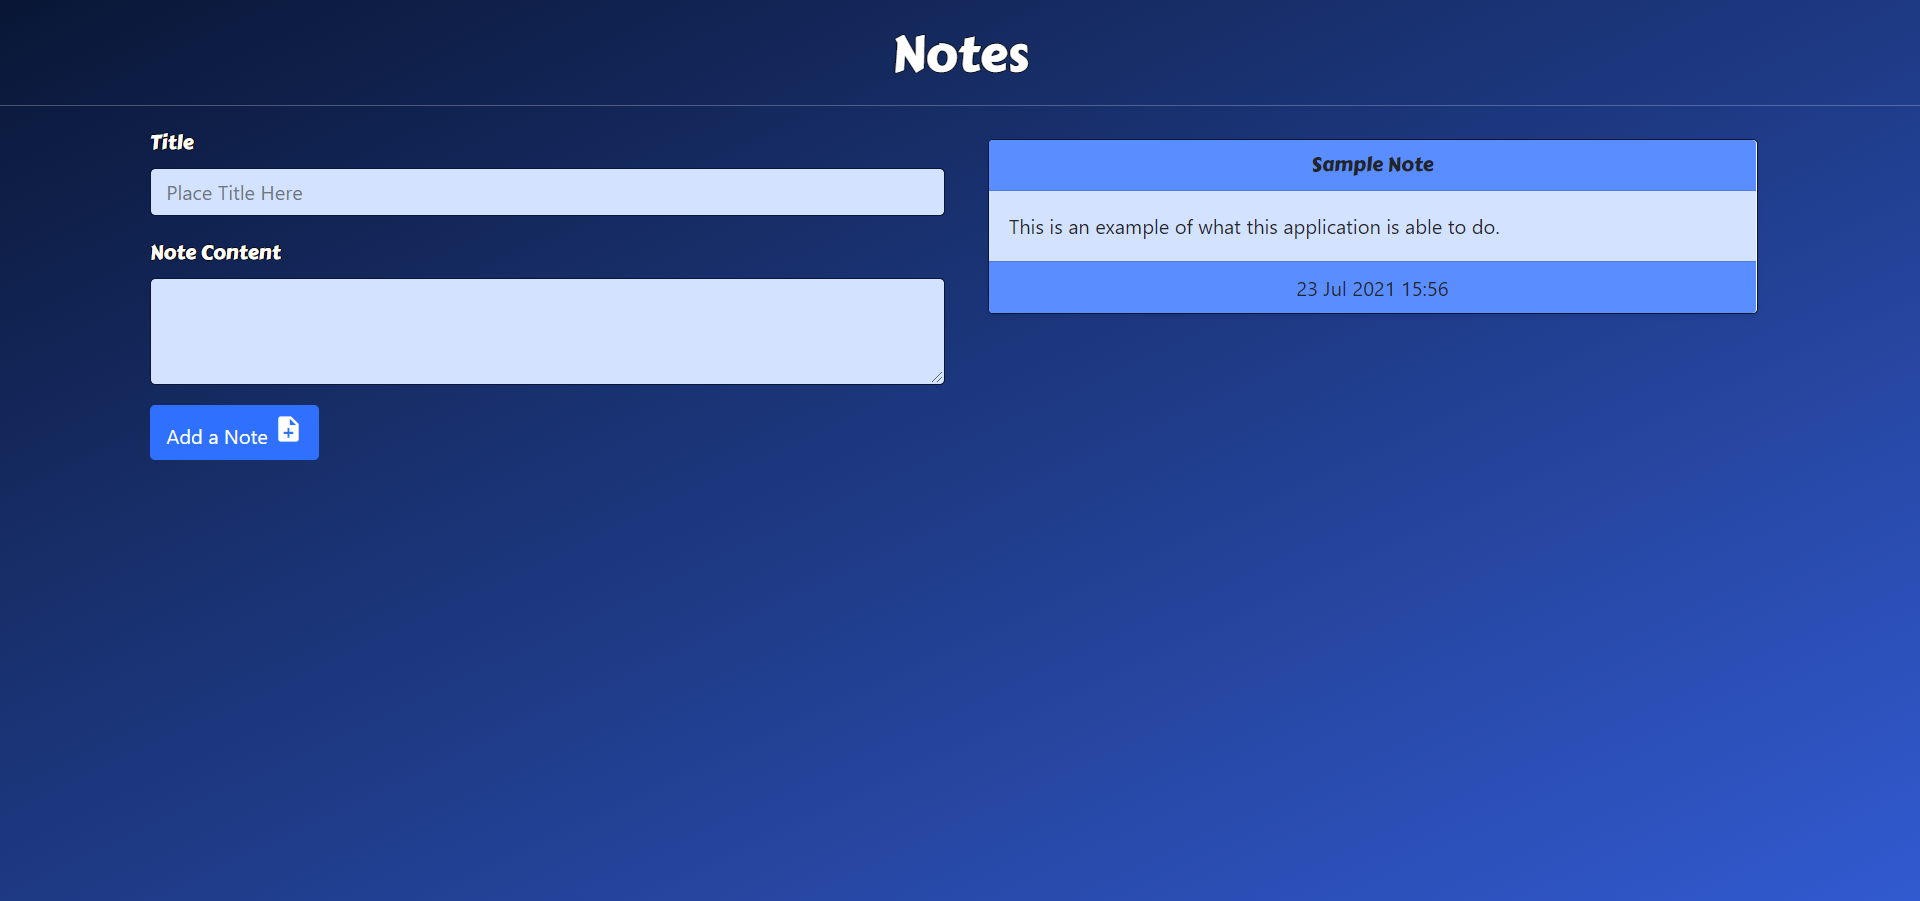
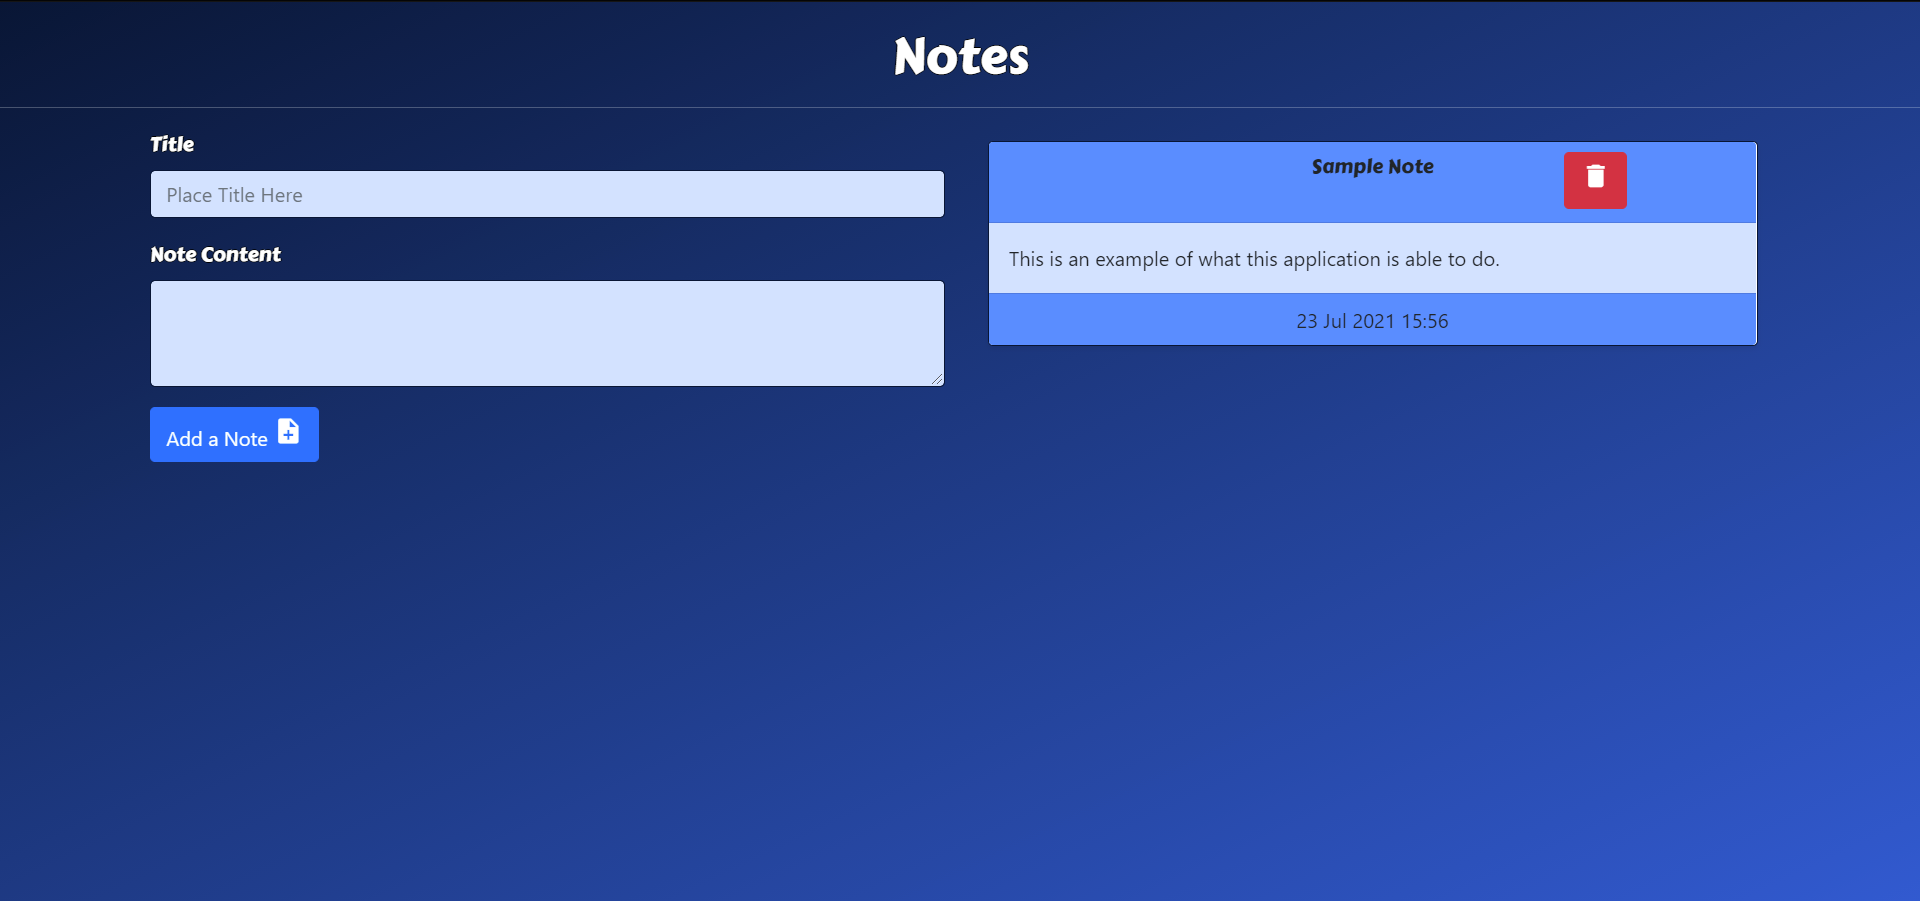
Added a feature to delete notes taken. Added being able to look up a single note with a GET request.

diff --git a/routes/notesRouter.js b/routes/notesRouter.js
@@ -1,11 +1,42 @@
 const router =  require('express').Router();
-const { readFromFile, readAndAppend } = require('../helpers/fsUtils');
+const { readFromFile, readAndOverwrite, readAndAppend, } = require('../helpers/fsUtils');
 const uuid = require('../helpers/uuid');
 const getDate = require('../helpers/getDate');
+const notes = require('../db/db.json');
 
 router.get('/', (req, res) => {
     console.info(`${req.method} request received for notes`);
     readFromFile('./db/db.json').then((data) => res.json(JSON.parse(data)));
+});
+
+router.get('/:note_id', (req, res) => {
+  const noteId = req.params.note_id;
+  if (req.body && noteId) {
+    console.info(`${req.method} request received for note ${noteId}.`);
+    for (let i = 0; i < notes.length; i++) {
+      const currentNote = notes[i];
+      if (currentNote.note_id === noteId) {
+        res.json(currentNote);
+        return;
+      }
+    }
+    res.json('Note ID not found');
+  }
+});
+
+router.delete('/:note_id', (req, res, next) => {
+  const noteId = req.params.note_id;
+  console.info(`${req.method} request received for note id ${noteId}.`);
+  for (let i = 0; i < notes.length; i++) {
+    const currentNote = notes[i];
+    if (currentNote.note_id === noteId) {
+      res.json(`${currentNote.title} has been deleted`);
+      notes.splice(i, 1);
+      console.log(notes);
+      readAndOverwrite(notes, './db/db.json');
+      return;
+    }
+  }
 });
 
 router.post('/', (req, res) => {
@@ -21,7 +52,6 @@ router.post('/', (req, res) => {
         note_id: uuid(),
       };
       readAndAppend(newNote, './db/db.json');
-      
       res.json(`Note added successfully. ID: ${newNote.note_id}`);
     } else {
       res.error('Error in adding note. Please try again.');

diff --git a/public/scripts/notes.js b/public/scripts/notes.js
@@ -33,6 +33,13 @@ const createCard = (note) => {
   cardEl.setAttribute('key', note.note_id);
   cardEl.innerHTML = (`<div class="card-header">
     ${note.title}
+    <br />
+    <br />
+    <button type="button" class="btn btn-danger">
+      <span class="material-icons md-36" id="delete-button">
+        delete
+      </span>
+    </button>
   </div>
   <div class="card-body">
     <p class="card-text">${note.text}</p>
@@ -41,7 +48,15 @@ const createCard = (note) => {
     ${note.date}
   </div>`)
   notesContainer.appendChild(cardEl);
+  handleDeleteButton();
 };
+
+const handleDeleteButton = () => {
+  let deleteButton = (document.querySelectorAll("#delete-button"));
+  for (let i = 0; i < deleteButton.length; i++) {
+    deleteButton[i].addEventListener('click', deleteNote);
+  }
+}
 
 const getNotes = () =>
   fetch(('/api/notes'), {
@@ -78,6 +93,19 @@ const postNote = (note) =>
   )
 ;
 
+const deleteNote = () => {
+  fetch(`/api/notes/${event.target.parentNode.parentNode.parentNode.getAttribute('key')}`, {
+    method: 'DELETE'
+  })
+  .then((response) => response.json())
+  .then((data) => {
+    alert(data);
+  })
+  .catch((error) => {
+    console.error('Error:', error);
+  });
+}
+
 getNotes().then((data) => {
   console.log(data);
   data.forEach((note) => createCard(note))
@@ -96,6 +124,7 @@ const handleNoteSubmit = (event) => {
   postNote(newNote);
   noteTitle.value = "";
   noteText.value = "";
+  location.reload();
 };
 
 // Listen for when the form is submitted

diff --git a/helpers/fsUtils.js b/helpers/fsUtils.js
@@ -20,7 +20,19 @@ const readAndAppend = (content, file) => {
   });
 };
 
+const readAndOverwrite = (content, file) => {
+  fs.readFile(file, 'utf8', (err, data) => {
+    if (err) {
+      console.error(err);
+    } else {
+      parsedData = JSON.parse(data)
+      writeToFile(file, content);
+    }
+  });
+};
+
 module.exports = { 
     readFromFile, 
-    readAndAppend
+    readAndAppend,
+    readAndOverwrite
 }

diff --git a/public/styles/style.css b/public/styles/style.css
@@ -16,6 +16,16 @@ header, .card-header, .card-footer, #intro {
     text-align: center;
 }
 
+.card {
+    position: relative;
+}
+
+.btn-danger {
+    left: 75%;
+    top: 5%;
+    position: absolute;
+}
+
 .card-header, .card-footer {
     background-color: rgb(78,140,255);
 }
